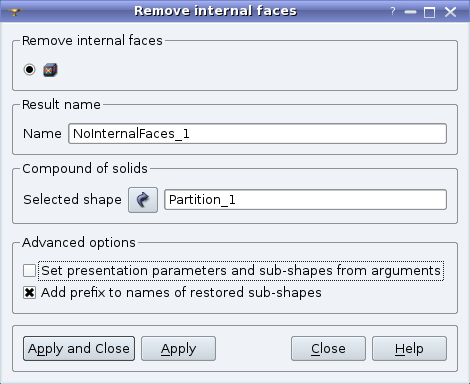
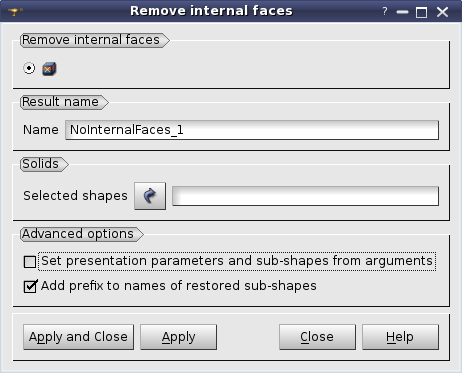
0022749: [EDF] Improvement of Remove Internal Faces operation

diff --git a/src/GEOMGUI/GEOM_msg_en.ts b/src/GEOMGUI/GEOM_msg_en.ts
@@ -4590,7 +4590,7 @@ Please, select face, shell or solid and try again</translation>
     </message>
     <message>
         <source>GEOM_REMOVE_WEBS</source>
-        <translation>Compound of solids</translation>
+        <translation>Solids</translation>
     </message>
     <message>
         <source>REMOVE_WEBS_NEW_OBJ_NAME</source>

diff --git a/src/GEOM_SWIG/geomBuilder.py b/src/GEOM_SWIG/geomBuilder.py
@@ -6399,9 +6399,9 @@ class geomBuilder(object, GEOM._objref_GEOM_Gen):
             self._autoPublish(anObj, theName, "sewed")
             return anObj
 
-        ## Rebuild the topology of theCompound of solids by removing
-        #  of the faces that are shared by several solids.
-        #  @param theCompound Shape to be processed.
+        ## Rebuild the topology of theSolids by removing
+        #  the faces that are shared by several solids.
+        #  @param theSolids A compound or a list of solids to be processed.
         #  @param theName Object name; when specified, this parameter is used
         #         for result publication in the study. Otherwise, if automatic
         #         publication is switched on, default value is used for result name.
@@ -6410,13 +6410,13 @@ class geomBuilder(object, GEOM._objref_GEOM_Gen):
         #
         #  @ref tui_remove_webs "Example"
         @ManageTransactions("HealOp")
-        def RemoveInternalFaces (self, theCompound, theName=None):
+        def RemoveInternalFaces (self, theSolids, theName=None):
             """
-            Rebuild the topology of theCompound of solids by removing
-            of the faces that are shared by several solids.
+            Rebuild the topology of theSolids by removing
+            the faces that are shared by several solids.
 
             Parameters:
-                theCompound Shape to be processed.
+                theSolids A compound or a list of solids to be processed.
                 theName Object name; when specified, this parameter is used
                         for result publication in the study. Otherwise, if automatic
                         publication is switched on, default value is used for result name.
@@ -6425,7 +6425,7 @@ class geomBuilder(object, GEOM._objref_GEOM_Gen):
                 New GEOM.GEOM_Object, containing processed shape.
             """
             # Example: see GEOM_TestHealing.py
-            anObj = self.HealOp.RemoveInternalFaces(theCompound)
+            anObj = self.HealOp.RemoveInternalFaces(ToList(theSolids))
             RaiseIfFailed("RemoveInternalFaces", self.HealOp)
             self._autoPublish(anObj, theName, "removeWebs")
             return anObj

diff --git a/src/GEOM_I/GEOM_IHealingOperations_i.cc b/src/GEOM_I/GEOM_IHealingOperations_i.cc
@@ -377,20 +377,21 @@ GEOM_IHealingOperations_i::SewAllowNonManifold (const GEOM::ListOfGO& theObjects
  *  RemoveInternalFaces
  */
 //=============================================================================
-GEOM::GEOM_Object_ptr GEOM_IHealingOperations_i::RemoveInternalFaces (GEOM::GEOM_Object_ptr theCompound)
+GEOM::GEOM_Object_ptr
+GEOM_IHealingOperations_i::RemoveInternalFaces (const GEOM::ListOfGO& theSolids)
 {
   GEOM::GEOM_Object_var aGEOMObject;
 
   // Set a not done flag
   GetOperations()->SetNotDone();
 
-  // Get the object
-  Handle(GEOM_Object) anObject = GetObjectImpl(theCompound);
-  if (anObject.IsNull())
+  // Get the objects
+  std::list< Handle(GEOM_Object) > aShapes;
+  if (! GetListOfObjectsImpl( theSolids, aShapes ))
     return aGEOMObject._retn();
 
   // Perform
-  Handle(GEOM_Object) aNewObject = GetOperations()->RemoveInternalFaces(anObject);
+  Handle(GEOM_Object) aNewObject = GetOperations()->RemoveInternalFaces(aShapes);
   if (!GetOperations()->IsDone() || aNewObject.IsNull())
     return aGEOMObject._retn();
 

diff --git a/src/RepairGUI/RepairGUI_RemoveWebsDlg.h b/src/RepairGUI/RepairGUI_RemoveWebsDlg.h
@@ -52,7 +52,7 @@ private:
   void                               activateSelection();
 
 private:
-  GEOM::GEOM_Object_var              myObject;
+  QList<GEOM::GeomObjPtr>            myObjects;
   bool                               myOkObject;
 
   DlgRef_1Sel*                       GroupPoints;
